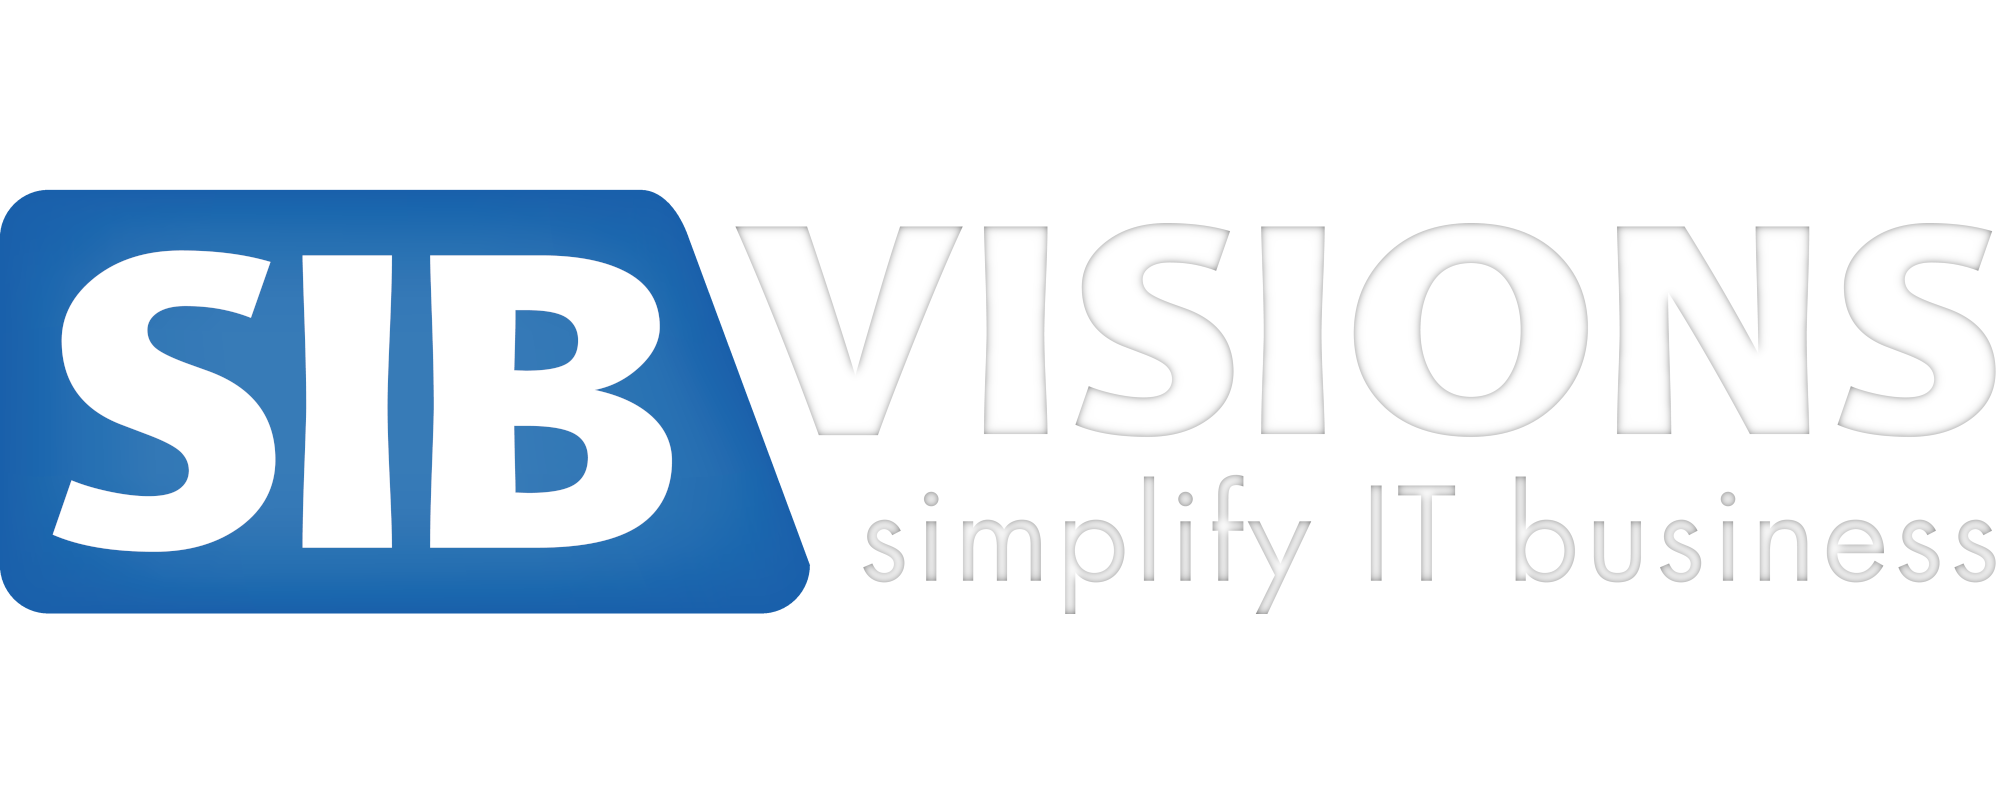
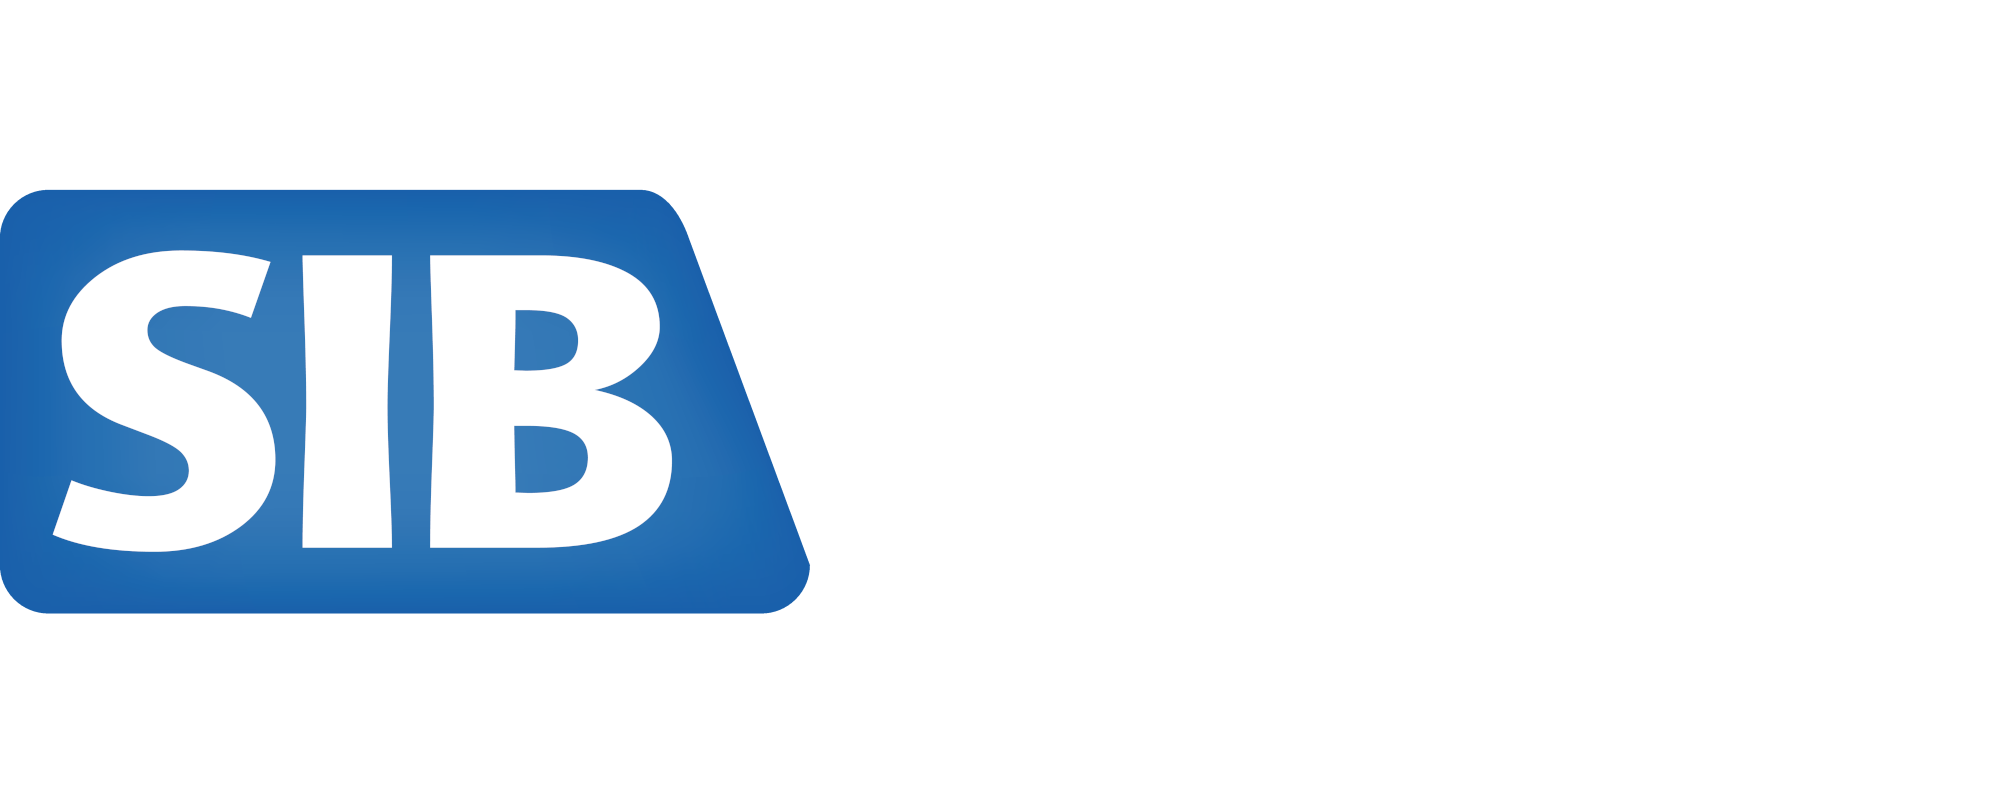
- login handler introduced instead of login builder - support custom app name in splash

diff --git a/lib/src/mask/login/default/default_login.dart b/lib/src/mask/login/default/default_login.dart
@@ -19,6 +19,7 @@ import 'dart:math';
 import 'package:beamer/beamer.dart';
 import 'package:flutter/material.dart';
 
+import '../../../custom/login_handler.dart';
 import '../../../flutter_ui.dart';
 import '../../../model/command/api/login_command.dart';
 import '../../../model/response/login_view_response.dart';
@@ -50,16 +51,26 @@ class DefaultLogin extends StatelessWidget implements Login {
     AppStyle appStyle = AppStyle.of(context);
     String? loginLogo = appStyle.style(context, 'login.logo');
 
-    bool inverseColor = ParseUtil.parseBool(appStyle.style(context, 'login.inverseColor')) ?? false;
-    bool colorGradient = ParseUtil.parseBool(appStyle.style(context, 'login.colorGradient')) ?? true;
+    LoginHandler? handler = FlutterUI.of(context).widget.loginHandler;
 
-    Color? topColor = ParseUtil.parseHexColor(appStyle.style(context, 'login.topColor')) ??
-        ParseUtil.parseHexColor(appStyle.style(context, 'login.background')) ??
-        Theme.of(context).colorScheme.primary;
-    Color? bottomColor = ParseUtil.parseHexColor(appStyle.style(context, 'login.bottomColor'));
+    bool inverseColor = ParseUtil.parseBool(appStyle.style(context, 'login.inverseColor')) ?? false;
+
+    bool? colorGradient = handler?.colorGradient ??
+                          ParseUtil.parseBool(appStyle.style(context, 'login.colorGradient')) ??
+                          true;
+
+    Color? topColor = handler?.topColorBuilder?.call(context) ??
+                      ParseUtil.parseHexColor(appStyle.style(context, 'login.topColor')) ??
+                      handler?.backgroundColorBuilder?.call(context) ??
+                      ParseUtil.parseHexColor(appStyle.style(context, 'login.background')) ??
+                      Theme.of(context).colorScheme.primary;
+
+    Color? bottomColor = handler?.bottomColorBuilder?.call(context) ??
+                         ParseUtil.parseHexColor(appStyle.style(context, 'login.bottomColor'));
 
     if (inverseColor) {
       var tempTop = topColor;
+
       topColor = bottomColor;
       bottomColor = tempTop;
     }
@@ -103,6 +114,8 @@ class DefaultLogin extends StatelessWidget implements Login {
     Color? bottomColor,
     bool colorGradient,
   ) {
+    Widget? logo = FlutterUI.of(context).widget.loginHandler?.logoBuilder?.call(context);
+
     return Column(
       crossAxisAlignment: CrossAxisAlignment.stretch,
       children: [
@@ -128,20 +141,18 @@ class DefaultLogin extends StatelessWidget implements Login {
               child: Center(
                 child: ConstrainedBox(
                   constraints: BoxConstraints.loose(const Size.fromWidth(650)),
-                  child: loginLogo != null
-                      ? ImageLoader.loadImage(
-                          loginLogo,
-                          pFit: BoxFit.scaleDown,
-                        )
-                      : Image.asset(
-                          ImageLoader.getAssetPath(
-                            FlutterUI.package,
-                            JVxColors.isLightTheme(context) ?
-                            "assets/images/branding_sib_visions.png" :
-                            "assets/images/branding_sib_visions_dark.png"
-                          ),
-                          fit: BoxFit.scaleDown,
-                        ),
+                  child: logo ??
+                         (loginLogo != null ?
+                             ImageLoader.loadImage(loginLogo, pFit: BoxFit.scaleDown) :
+                             Image.asset(
+                                ImageLoader.getAssetPath(
+                                  FlutterUI.package,
+                                  JVxColors.isLightTheme(context) ?
+                                  "assets/images/branding_sib_visions.png" :
+                                  "assets/images/branding_sib_visions_dark.png"
+                                ),
+                                fit: BoxFit.scaleDown,
+                             )),
                 ),
               ),
             ),

diff --git a/lib/src/mask/login/modern/modern_login.dart b/lib/src/mask/login/modern/modern_login.dart
@@ -21,6 +21,7 @@ import 'package:flutter/foundation.dart';
 import 'package:flutter/material.dart';
 import 'package:font_awesome_flutter/font_awesome_flutter.dart';
 
+import '../../../custom/login_handler.dart';
 import '../../../flutter_ui.dart';
 import '../../../model/command/api/login_command.dart';
 import '../../../model/response/login_view_response.dart';
@@ -58,16 +59,26 @@ class ModernLogin extends StatelessWidget implements Login {
     String? loginLogo = appStyle.style(context, 'login.logo');
     String? loginTitle = appStyle.style(context, 'login.title');
 
-    bool inverseColor = ParseUtil.parseBool(appStyle.style(context, 'login.inverseColor')) ?? false;
-    bool colorGradient = ParseUtil.parseBool(appStyle.style(context, 'login.colorGradient')) ?? true;
+    LoginHandler? handler = FlutterUI.of(context).widget.loginHandler;
 
-    Color? topColor = ParseUtil.parseHexColor(appStyle.style(context, 'login.topColor')) ??
+    bool inverseColor = ParseUtil.parseBool(appStyle.style(context, 'login.inverseColor')) ?? false;
+
+    bool? colorGradient = handler?.colorGradient ??
+        ParseUtil.parseBool(appStyle.style(context, 'login.colorGradient')) ??
+        true;
+
+    Color? topColor = handler?.topColorBuilder?.call(context) ??
+        ParseUtil.parseHexColor(appStyle.style(context, 'login.topColor')) ??
+        handler?.backgroundColorBuilder?.call(context) ??
         ParseUtil.parseHexColor(appStyle.style(context, 'login.background')) ??
         Theme.of(context).colorScheme.primary;
-    Color? bottomColor = ParseUtil.parseHexColor(appStyle.style(context, 'login.bottomColor'));
+
+    Color? bottomColor = handler?.bottomColorBuilder?.call(context) ??
+        ParseUtil.parseHexColor(appStyle.style(context, 'login.bottomColor'));
 
     if (inverseColor) {
       var tempTop = topColor;
+
       topColor = bottomColor;
       bottomColor = tempTop;
     }

diff --git a/lib/src/custom/login_handler.dart b/lib/src/custom/login_handler.dart
@@ -1,0 +1,60 @@
+/*
+ * Copyright 2024 SIB Visions GmbH
+ *
+ * Licensed under the Apache License, Version 2.0 (the "License"); you may not
+ * use this file except in compliance with the License. You may obtain a copy of
+ * the License at
+ *
+ * http://www.apache.org/licenses/LICENSE-2.0
+ *
+ * Unless required by applicable law or agreed to in writing, software
+ * distributed under the License is distributed on an "AS IS" BASIS, WITHOUT
+ * WARRANTIES OR CONDITIONS OF ANY KIND, either express or implied. See the
+ * License for the specific language governing permissions and limitations under
+ * the License.
+ */
+
+import 'package:flutter/widgets.dart';
+
+import '../../flutter_jvx.dart';
+
+typedef ColorBuilder = Color Function(BuildContext context);
+
+/// Used for customization of login
+class LoginHandler {
+  //~~~~~~~~~~~~~~~~~~~~~~~~~~~~~~~~~~~~~~~~~~~~
+  // Class members
+  //~~~~~~~~~~~~~~~~~~~~~~~~~~~~~~~~~~~~~~~~~~~~
+
+  /// the login widget builder
+  final LoginBuilder? builder;
+
+  /// Builder function for custom login logo
+  final WidgetBuilder? logoBuilder;
+
+  /// Builder function for background color
+  final ColorBuilder? backgroundColorBuilder;
+
+  /// Builder function for top color
+  final ColorBuilder? topColorBuilder;
+
+  /// Builder function for bottom color
+  final ColorBuilder? bottomColorBuilder;
+
+  /// whether to use a color gradient instead of linear color
+  final bool? colorGradient;
+
+  //~~~~~~~~~~~~~~~~~~~~~~~~~~~~~~~~~~~~~~~~~~~~
+  // Initialization
+  //~~~~~~~~~~~~~~~~~~~~~~~~~~~~~~~~~~~~~~~~~~~~
+
+  LoginHandler({
+    this.builder,
+    this.logoBuilder,
+    this.backgroundColorBuilder,
+    this.topColorBuilder,
+    this.bottomColorBuilder,
+    this.colorGradient,
+  });
+
+}

diff --git a/lib/src/mask/splash/jvx_splash.dart b/lib/src/mask/splash/jvx_splash.dart
@@ -26,6 +26,7 @@ import '../../service/ui/i_ui_service.dart';
 
 class JVxSplash extends StatefulWidget {
   final bool showAppName;
+  final String? appName;
   final Widget? logo;
   final Widget? branding;
   final Widget background;
@@ -36,6 +37,7 @@ class JVxSplash extends StatefulWidget {
     super.key,
     this.snapshot,
     this.showAppName = true,
+    this.appName,
     this.logo,
     this.branding,
     this.centerBranding = false,
@@ -84,7 +86,7 @@ class _JVxSplashState extends State<JVxSplash> {
                       Padding(
                         padding: const EdgeInsets.only(top: 15),
                         child: Text(
-                          FlutterUI.packageInfo.appName,
+                          widget.appName ?? FlutterUI.packageInfo.appName,
                           style: const TextStyle(
                             fontSize: 32.0,
                             fontWeight: FontWeight.bold,

diff --git a/lib/src/flutter_ui.dart b/lib/src/flutter_ui.dart
@@ -37,6 +37,7 @@ import 'commands.dart';
 import 'config/app_config.dart';
 import 'config/server_config.dart';
 import 'custom/app_manager.dart';
+import 'custom/login_handler.dart';
 import 'mask/jvx_overlay.dart';
 import 'mask/login/login.dart';
 import 'mask/menu/menu.dart';
@@ -190,8 +191,8 @@ class FlutterUI extends StatefulWidget {
   /// Builder function for custom background.
   final WidgetBuilder? backgroundBuilder;
 
-  /// Builder function for custom login widget
-  final LoginBuilder? loginBuilder;
+  /// Handler for custom login
+  final LoginHandler? loginHandler;
 
   /// Builder function for custom menu implementation.
   final MenuBuilder? menuBuilder;
@@ -209,7 +210,7 @@ class FlutterUI extends StatefulWidget {
     this.appManager,
     this.splashBuilder,
     this.backgroundBuilder,
-    this.loginBuilder,
+    this.loginHandler,
     this.menuBuilder,
     this.debugOverlayEntries = const [],
   });

diff --git a/lib/src/mask/login/login_page.dart b/lib/src/mask/login/login_page.dart
@@ -207,7 +207,7 @@ class LoginPage extends StatefulWidget {
 class _LoginPageState extends State<LoginPage> {
   @override
   Widget build(BuildContext context) {
-    var customWidget = FlutterUI.of(context).widget.loginBuilder?.call(context, widget.loginMode);
+    var customWidget = FlutterUI.of(context).widget.loginHandler?.builder?.call(context, widget.loginMode);
     if (customWidget != null) return customWidget;
 
     AppStyle appStyle = AppStyle.of(context);
